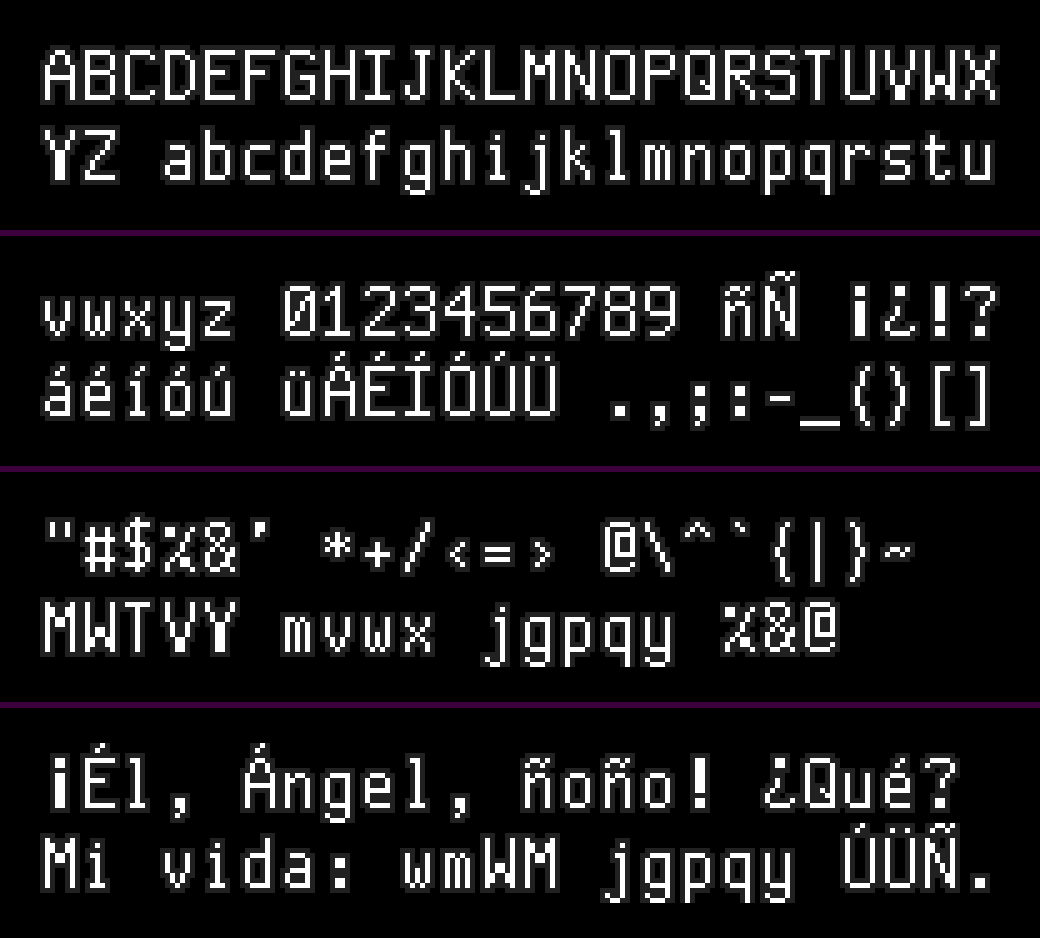
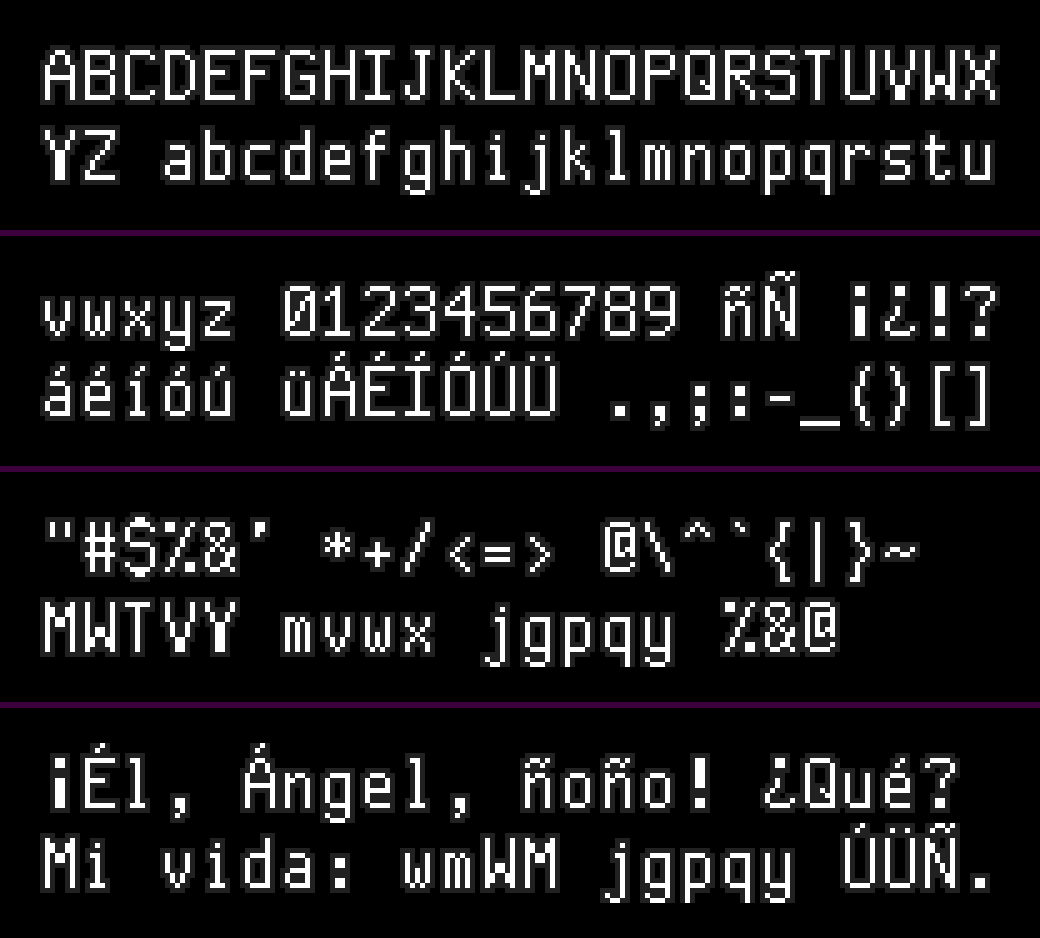
docs(fonts): documentar el retoque de los símbolos y repetir la captura de la página 3

diff --git a/docs/fonts/custom-font.md b/docs/fonts/custom-font.md
@@ -32,7 +32,7 @@ python tools/build_latin_probe.py --rom <original.sfc> --asar <asar> --font-art 
 
 ```text
 pip install fonttools
-python tools/export_font.py --source assets/font/latin-8x16.txt --out assets/font/dark-law-latin.ttf [--version 0.1]
+python tools/export_font.py --source assets/font/latin-8x16.txt --out assets/font/dark-law-latin.ttf [--version 0.2]
 ```
 
 - **Content:** the fill only, 116 glyphs (the 111 of the game set and `— … « »` and the dotless `ı`) and a hollow-box `.notdef`. The game outline is not part of it; `build_custom_font.py` adds it for the ROM.
@@ -40,7 +40,7 @@ python tools/export_font.py --source assets/font/latin-8x16.txt --out assets/fon
 - **Outlines:** every pixel is a square of the vector outline, merged into polygons (diagonal pixels share one contour, holes run the other way).
 - **Sizes:** exact at 16 px and at whole multiples of it (32, 48, 64...) with no anti-aliasing; at any other size it is blurry or uneven, as every pixel font. Use a bilevel (non-anti-aliased) rendering.
 - **FreeType:** without instructions, FreeType's auto-hinter moved the top pixel of the acute accent up one row in the first export. The font carries empty `fpgm` and `prep` programs and a `gasp` table (grid-fit, no smoothing) so that it keeps its coordinates. With Pillow (FreeType) the 116 glyphs render pixel-exact at 16, 32, 48, 64 and 160 px, and a test checks it at 16, 32 and 48 px.
-- **Checked:** FreeType through Pillow (the pixel-exact test above) and the Windows font viewer, which opens the file as "Dark Law Latin Regular (TrueType)", version 0.1, and draws the specimen at 12 to 72 pt (the user's screenshot of 2026-11-20). **Not checked:** macOS, browsers, and the font installed and used in an editor.
+- **Checked:** FreeType through Pillow (the pixel-exact test above) and the Windows font viewer, which opens the file as "Dark Law Latin Regular (TrueType)", version 0.1 (the first export), and draws the specimen at 12 to 72 pt (the user's screenshot of 2026-11-20). **Not checked:** macOS, browsers, and the font installed and used in an editor.
 - `images/charts/custom-ttf-specimen.png` shows the font at 32 and 16 px (drawn from the TTF, not an emulator capture).
 - **Dependency:** `fontTools` is optional and imported late, like Pillow in `bitmap_font.py`. Without it `export_font.py` exits with code 1 and the tests that need it are skipped; `build_custom_font.py` and the ROM probes do not use it.
 
@@ -71,7 +71,7 @@ What the captures show:
 - **Accents.** The two-pixel acute, the two dots and the tilde are small but visible in both windows and never touch the letter. Capitals take rows 0-1, so on the first row of a window their accent sits at the very top of the glyph cell.
 - **Spacing.** With 5 to 6 pixels of ink in 8, the gap between letters is 2 to 3 pixels: airy, and a full outline leaves a dark band between neighbours instead of merged letters.
 - **Bold experiment (discarded).** Smearing every glyph one pixel to the right to get two-pixel strokes fills the counters of `m`, `w`, `M` and `W` into blocks (`wmWM` becomes unreadable). Heavier strokes need glyphs drawn for them, not a filter.
-- **Weakest glyphs.** The ones drawn last and quickly: `# $ % & @ ~ ^ { }`, `* < >` and the inverted `¡`, whose two-pixel stem is heavier than the other strokes. They read but are not polished.
+- **Weakest glyphs, retouched.** The first draft left `# $ % & @ ~ ^ { }`, `* < >` and `¡` rough. Seen at 8x and in the game, the second pass changed: `#` to the full cap height with its bars centred; `$` into a plain `S` with a tick above and below instead of a two-pixel stem through the body; `%` into two small round marks joined by a clean diagonal (it was one row short and lumpy); `&` redrawn with a closed upper loop and an open tail; `@` kept with a cleaner right edge of the inner letter; `{ }` redrawn four pixels wide with a point in the middle, like `( )` but distinct; `< >` enlarged from 5 to 7 rows and 4 pixels wide; `~` widened to 6 pixels; `!` and so `¡` with the stem shortened to six rows and two empty rows before the dot, which lightens the block that looked like a bold `i`. `^` and `*` were left as they were. All of them still read as weaker than the letters (they are drawn quickly and have only been seen at 1x in the game and at 8x here); the ones to look at first with real text are `&`, `@` and `%`.
 
 ## Limits
 
@@ -83,6 +83,6 @@ What the captures show:
 
 ## Next Steps
 
-1. Review the weakest glyphs (the list above) and the proportions of `M`, `W`, `Q`, `&` and `@` with larger test text.
+1. Look at `&`, `@` and `%` and the proportions of `M`, `W` and `Q` with real game text.
 2. Decide the stroke weight with the user (1 pixel as drawn, or a second source drawn for 2 pixels) and whether to keep the outline in all windows.
 3. Decide whether the project takes this font or Sweet16mono or Departure Mono, and then grow the hook's letter set for `— … « »` if the text needs them.
